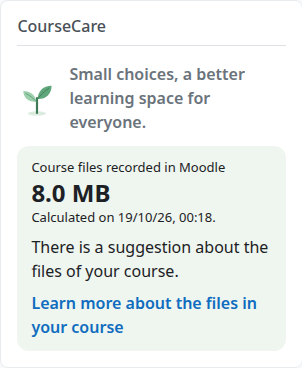
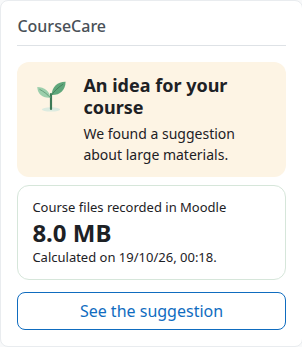
docs(008): product-owner visual approval recorded (T023); Marketplace screenshots replaced by the approved 0.8.0 ones

diff --git a/specs/008-educational-experience/tasks.md b/specs/008-educational-experience/tasks.md
@@ -92,8 +92,8 @@ e as atividades com link, com os mesmos números e critérios da 004.
 - [X] T020 Limpeza: strings sem uso removidas (`block:suggestion` e outras), paridade de i18n, `tools/package/check.php` aceita `amd/` (ajustar a lista de permissão se preciso) e o pacote passa.
 - [X] T021 Suítes locais (PHPUnit, Behat em 4.5), push e CI verde nas quatro combinações (inclui `grunt` e `mustache`); registrar em `evidence/README.md`.
 - [X] T022 Auditoria de acessibilidade e responsividade com `tools/dev/demo/checks.py` (axe, teclado, zoom 200%, 320 px, árvore de acessibilidade) em 4.5 Boost, 4.5 Classic e 5.3 Boost, gaveta aberta e tours concluídos; corrigir só defeitos reais.
-- [X] T023 Capturas reais (en e pt_BR; 4.5 e 5.3; bloco em cada estado principal, página nas duas abas; desktop e celular) e comparação lado a lado com o mockup aprovado em `evidence/screenshots/` e `evidence/comparison.md`; **aprovação do proprietário do produto pendente**.
-- [X] T024 Documentação: `docs/teacher-guide.md` e `docs/pt_br/guia-do-professor.md` (estados do bloco, abas), `README.md`, `docs/marketplace/listing.md`; capturas do Marketplace só depois da aprovação (T023).
+- [X] T023 Capturas reais (en e pt_BR; 4.5 e 5.3; bloco em cada estado principal, página nas duas abas; desktop e celular) e comparação lado a lado com o mockup aprovado em `evidence/screenshots/` e `evidence/comparison.md`; **aprovado pelo proprietário do produto em 2026-10-19** (registro em `evidence/comparison.md`).
+- [X] T024 Documentação: `docs/teacher-guide.md` e `docs/pt_br/guia-do-professor.md` (estados do bloco, abas), `README.md`, `docs/marketplace/listing.md`; capturas do Marketplace trocadas pelas da 0.8.0 depois da aprovação (T023, 2026-10-19).
 - [X] T025 Constitution Check do plano contra a entrega e matriz de prontidão da 008 em `evidence/README.md`.
 
 ---

diff --git a/docs/marketplace/listing.md b/docs/marketplace/listing.md
@@ -87,19 +87,18 @@ GNU GPL v3 or later.
 
 ## Screenshots
 
-Screenshots of 0.7.0, to be replaced by screenshots of 0.8.0 once the product owner approves them. Real
-screenshots of demonstration sites with fictitious courses and people, interface in English, in
-[`screenshots/`](screenshots/). The fictitious course content is in Portuguese ("Biologia celular").
-They show no personal data.
+Real screenshots of 0.8.0 (approved by the product owner on 2026-10-19) on demonstration sites with
+fictitious courses and people, interface in English, in [`screenshots/`](screenshots/). The fictitious
+course content is in Portuguese ("Biologia celular"). They show no personal data.
 
 | File | Shows |
 | --- | --- |
-| `01-block.png` | The block on a course page (Moodle 5.3, Boost) |
-| `02-page.png` | "Your course in numbers" with the suggestion (Moodle 5.3, Boost) |
-| `03-potential.png` | The potential of assignments |
-| `04-history.png` | How the files of the course have changed |
-| `05-mobile.png` | The page on a phone-sized screen |
-| `06-moodle45.png` | The page on Moodle 4.5 |
+| `01-block.png` | The block with a suggestion, "An idea for your course" (Moodle 5.3, Boost) |
+| `02-page.png` | "Your course in numbers", tab "Suggestions for you" (Moodle 5.3, Boost) |
+| `03-details.png` | Tab "Details": where the files are, large files, history, materials, potential (Moodle 5.3) |
+| `04-block-allgood.png` | The block when the latest analysis finds nothing to suggest, "All good here!" (Moodle 5.3) |
+| `05-mobile.png` | The page on a phone-sized screen (Moodle 5.3) |
+| `06-moodle45.png` | The page on Moodle 4.5 (Boost) |
 
 ## Claims checked
 

diff --git a/specs/008-educational-experience/evidence/README.md b/specs/008-educational-experience/evidence/README.md
@@ -56,8 +56,9 @@ de arquivos grandes da 006. Teste com leitor de tela: **pendente** (grupo D).
 ## Capturas e comparação com o mockup
 
 [comparison.md](comparison.md) e `screenshots/approval/` (5.3 en, 4.5 pt_br Boost e Classic; desktop e
-celular). **Aprovação do proprietário do produto pendente.** As capturas do Marketplace (`docs/marketplace`)
-só são trocadas depois dessa aprovação.
+celular). **Aprovado pelo proprietário do produto em 2026-10-19** (registro e observações não bloqueantes em
+`comparison.md`). As capturas do Marketplace (`docs/marketplace/screenshots`) foram trocadas pelas da 0.8.0
+depois da aprovação.
 
 ## Ilustração
 
@@ -66,7 +67,8 @@ mesma situação do restante do projeto (pendente, relatório da 007).
 
 ## Validações humanas
 
-- Aprovação das capturas finais e do tom das strings novas (grupo B): pendente.
+- Aprovação das capturas finais e das mensagens novas (grupo B): **aprovada em 2026-10-19** (pontos 3 e 10
+  da aprovação cobrem as mensagens contextualizadas e a linguagem).
 - Teste com leitor de tela das abas e do bloco (grupo D): pendente.
 - Avaliação com professores (grupo C): pendente, pode usar esta versão.
 
@@ -91,5 +93,5 @@ Resultado: **PASSA**.
 
 ## Prontidão
 
-Implementação completa e testada; **pronta para a sua avaliação das capturas**. Não está pronta para merge
-antes dessa aprovação e do CI verde.
+Implementação completa, testada, com CI verde e aprovação visual registrada. Pendências humanas que seguem
+abertas, sem evidência: teste com leitor de tela (D) e avaliação com professores (C).

diff --git a/specs/008-educational-experience/evidence/comparison.md b/specs/008-educational-experience/evidence/comparison.md
@@ -3,8 +3,18 @@
 Capturas reais em `screenshots/approval/`, tiradas em 2026-10-19 nos sites de demonstração (dados
 fictícios): `53-boost-en` (Moodle 5.3, Boost, inglês), `45-boost-ptbr` (Moodle 4.5, Boost, português) e
 `45-classic-ptbr` (Moodle 4.5, Classic). Referência: o mockup original aprovado e a proposta visual de
-2026-10-19 (https://claude.ai/artifact/G2ZMgZoDgV6L8DxL1YCn1H). **Aprovação visual pendente do
-proprietário do produto.**
+2026-10-19 (https://claude.ai/artifact/G2ZMgZoDgV6L8DxL1YCn1H).
+
+## Aprovação do proprietário do produto (2026-10-19)
+
+**APROVADO**, sem nova rodada de redesign, como evolução da identidade e da experiência educativa do
+CourseCare / AVA Consciente, alinhada à direção visual aprovada. Pontos aprovados: estados educativos do
+bloco; indicador essencial de armazenamento; mensagens contextualizadas; identidade visual e ilustração;
+cabeçalho da página; abas "Sugestões para você" e "Em detalhes"; apresentação das recomendações;
+preservação dos indicadores anteriores; responsividade; linguagem educativa e não fiscalizatória.
+
+Observações não bloqueantes, **fora do escopo desta feature** (não implementadas): simplificar no futuro a
+apresentação das recomendações no celular; ampliar as orientações educativas (roadmap).
 
 ## Bloco
 
